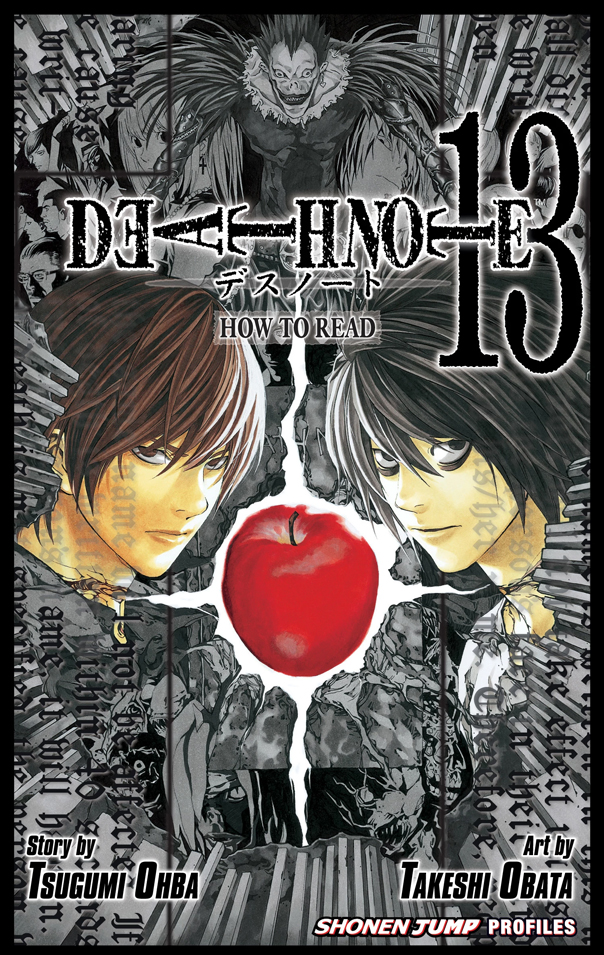
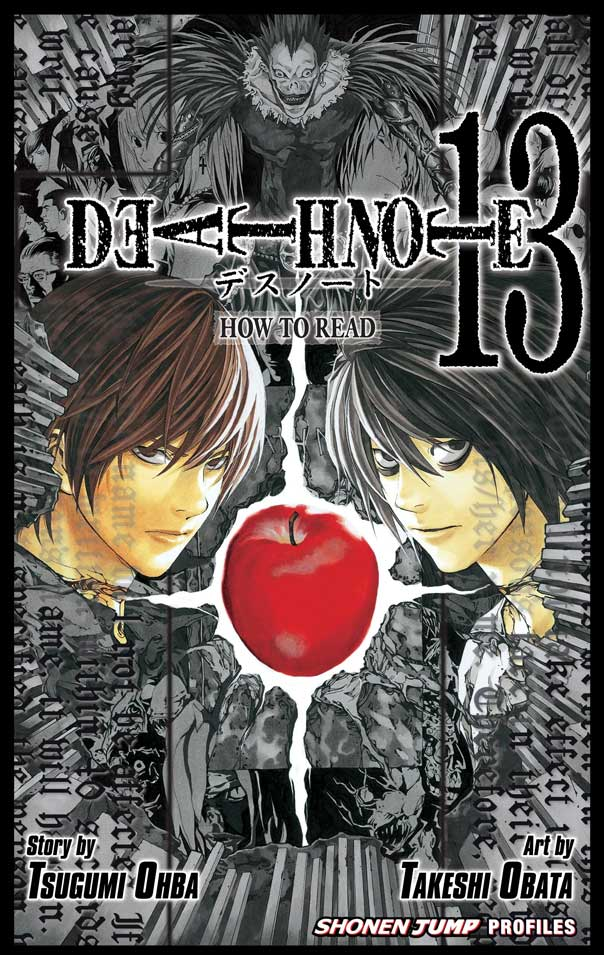
add analytics. reduce image sizes

diff --git a/src/App.scss b/src/App.scss
@@ -179,20 +179,21 @@ button.close-icon {
   padding: 0;
   position: absolute;
   top: -12px;
-  right: -15px;
+  left: -15px;
   width: 35px;
   height: 35px;
   display: none;
-  background: #dadada;
+  background: #ddd;
   box-shadow: 0 5px 5px rgba(0, 0, 0, 0.4);
 }
 
 button.close-icon:hover {
-  background: #cccccc;
+  background: #ccc;
 }
 
 button.close-icon img {
-  width: 14px;
+  width: 13px;
+  position: relative;
 }
 
 .book {
@@ -205,6 +206,12 @@ button.close-icon img {
   margin-bottom: 20px;
   flex-basis: 30%;
   box-shadow: 0 7px 7px rgba(0, 0, 0, 0.2);
+
+  &:hover {
+    .FlipPage__bg {
+      border-color: transparent transparent darken($color-red, 5%) transparent;
+    }
+  }
 }
 
 .large-book {
@@ -234,24 +241,16 @@ button.close-icon img {
   overflow: hidden;
   padding: 5px;
   position: absolute;
+  z-index: 100;
   bottom: 0;
   width: 100%;
   box-sizing: border-box;
   max-height: 26px;
-  transition: max-height 0.3s ease-out;
+  transition: max-height 0.2s ease-out;
 }
 
 .small-book-info h5 {
   margin: 2px 0 0;
-}
-
-.small-book-info .page-flip button {
-  text-transform: uppercase;
-  letter-spacing: 1px;
-  font-size: .65rem;
-  padding: .5rem 1rem;
-  margin: 7px 0 3px;
-  box-shadow: none;
 }
 
 ul.tags {
@@ -273,24 +272,60 @@ ul.tags li {
 .small-book:not(.selected-book):hover, .small-book:not(.selected-book):focus {
   transform: scale(1.15);
   box-shadow: 0 14px 14px rgba(0,0,0,.3);
-}
-
-.small-book:hover {
   z-index: 100;
 }
 
 .small-book:hover .small-book-info, .selected-book .small-book-info {  
   bottom: 0;
-  transition: max-height 0.3s ease-in;
+  transition: max-height 0.2s ease-in;
   max-height: 300px;
 }
 
-.small-book:hover .page-flip button {
-  background: #AD0015;
+.small-book.selected-book .FlipPage, .selected-book .close-icon {
+  display: inline-block;
 }
 
-.selected-book .page-flip, .selected-book .close-icon {
+
+.FlipPage__bg {
+  position: absolute;
+  right: 0;
+  bottom: 0;
+  border-style: solid;
+  border-color: transparent transparent $color-red transparent;
+}
+
+.FlipPage__text {
+  position: absolute;
   display: inline-block;
+  letter-spacing: 2px;
+  font-weight: 600;
+  color: white;
+}
+
+.large-book {
+  .FlipPage__bg {
+    border-width: 0 0 200px 200px;
+  }
+  .FlipPage__text {
+    bottom: 35px;
+    right: 25px;
+    font-size: 30px;
+  }
+}
+
+.small-book {
+  .FlipPage {
+    display: none;
+  }
+  .FlipPage__bg {
+    border-width: 0 0 130px 130px;
+  }
+  .FlipPage__text {
+    bottom: 63px;
+    right: 8px;
+    font-size: .85rem;
+    letter-spacing: 1px;
+  }
 }
 
 @media (max-width: 700px) {

diff --git a/src/components/LargeBook.js b/src/components/LargeBook.js
@@ -1,12 +1,13 @@
 import React, { Component } from 'react';
+import { FlipPage } from './FlipPage';
 
 export class LargeBook extends Component {
   render(){
-  	let lastPage;
+  	let pageAddOn;
   	let background = {backgroundImage: 'url('+this.props.book.pages[this.props.pageIndex]+')'};
   	if (this.props.book.pages.length === this.props.pageIndex) {
   		background = {background: '#a90329', background: 'linear-gradient(rgb(103, 29, 80) 0%, rgb(0, 0, 0) 100%)'};
-  		lastPage = (
+  		pageAddOn = (
   			<div className = "last-page noselect">
   				<img src={this.props.book.pages[0]} />
 	  			<a href="#manga-title"><button className="arrow-down"></button></a>
@@ -15,12 +16,14 @@ export class LargeBook extends Component {
 	  			</p>
   			</div>
   		);
-  	}
+  	} else if (this.props.pageIndex == 0) {
+      pageAddOn = <FlipPage />;
+    }
     return (
       <div className="book large-book" 
            onClick={()=>this.props.onBookClick(this.props.book)}
            style={background}>
-           {lastPage}
+           {pageAddOn}
            <button className="close-icon noselect" onClick={this.props.onCloseClick}>
               <img src="img/close-icon.svg" />
            </button>

diff --git a/public/index.html b/public/index.html
@@ -11,6 +11,16 @@
     <link rel="manifest" href="%PUBLIC_URL%/manifest.json">
     <link rel="shortcut icon" href="%PUBLIC_URL%/favicon.ico">
     <link href="https://fonts.googleapis.com/css?family=Righteous" rel="stylesheet">
+    <script>
+      (function(i,s,o,g,r,a,m){i['GoogleAnalyticsObject']=r;i[r]=i[r]||function(){
+      (i[r].q=i[r].q||[]).push(arguments)},i[r].l=1*new Date();a=s.createElement(o),
+      m=s.getElementsByTagName(o)[0];a.async=1;a.src=g;m.parentNode.insertBefore(a,m)
+      })(window,document,'script','https://www.google-analytics.com/analytics.js','ga');
+
+      ga('create', 'UA-102559997-1', 'auto');
+      ga('send', 'pageview');
+
+    </script>
     <!--
       Notice the use of %PUBLIC_URL% in the tags above.
       It will be replaced with the URL of the `public` folder during the build.

diff --git a/src/components/SmallBook.js b/src/components/SmallBook.js
@@ -1,5 +1,6 @@
 import React, { Component } from 'react';
 import { Tag } from './Tag';
+import { FlipPage } from './FlipPage';
 
 export class SmallBook extends Component {
   render(){
@@ -15,6 +16,7 @@ export class SmallBook extends Component {
            		<ul className="tags">{tags}</ul>
               <div className = "page-flip"><button>flip page</button></div>
            </div>
+           <FlipPage />
            <button className="close-icon noselect" onClick={this.props.onCloseClick}>
               <img src="img/close-icon.svg" />
            </button>

diff --git a/src/components/FlipPage.js b/src/components/FlipPage.js
@@ -1,0 +1,12 @@
+import React, { Component } from 'react';
+
+export class FlipPage extends Component {
+  render(){
+    return (
+      <div className="FlipPage noselect">
+      	<div className="FlipPage__bg"></div>
+        <div className="FlipPage__text">FLIP</div>
+      </div>
+    );
+  }
+}
